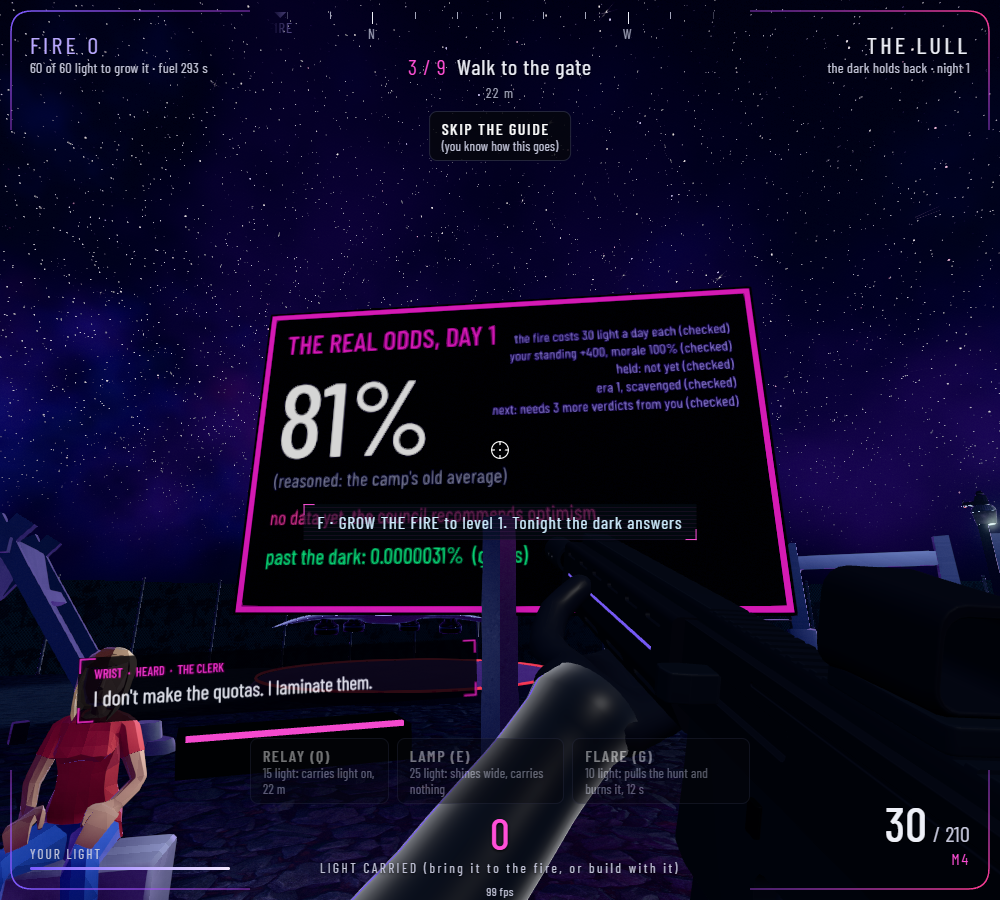
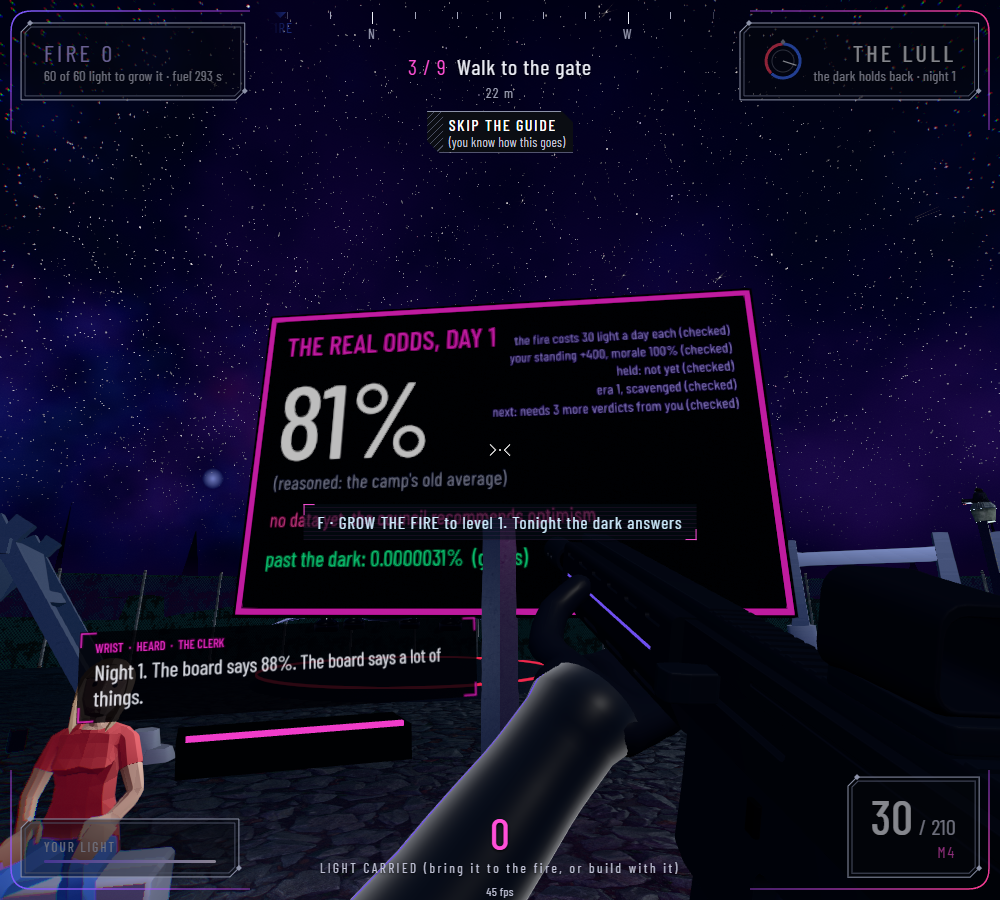
Screens' look from the concept sheets: loading screen with real progress, steel double-line HUD frames, cut-corner hatch keys, chevron crosshair, cracked-visor damage overlay, day/night dial, blue-ours red-dark compass

diff --git a/next/client/uikit.js b/next/client/uikit.js
@@ -1,0 +1,112 @@
+// The screens' look from his concept sheets, taken through the North Star (2026-10-19): black, crimson, violet, cold gray; blue is ours, red is the
+// dark. Thin sharp steel lines on black. Neon means saturated, never a glowing blob: no glow or halo anywhere here (taste rule 3), no orange, gold,
+// rust, olive or mint. One file so the pieces stay together: the loading screen, steel frames and cut-corner keys, the two-chevron crosshair, the
+// cracked-visor damage overlay, the day and night dial, and the colors the compass uses.
+export const COL = { steel: '#8c92a8', steelDim: '#4a4f63', black: '#05060b', ours: '#3b6bff', dark: '#ff3b5c', crimson: '#c4143c', violet: '#7b5cff', text: '#eef0f8' };
+const CSS = `
+/* ---- keys: the long cut-corner key with hatch marks and an inset box (sheet 11:10) */
+.key, .bk { border: 0 !important; border-radius: 0 !important; clip-path: polygon(0 0, calc(100% - 12px) 0, 100% 12px, 100% 100%, 12px 100%, 0 calc(100% - 12px));
+  background: linear-gradient(${COL.steel}, ${COL.steel}) top left / calc(100% - 12px) 1px no-repeat, linear-gradient(${COL.steel}, ${COL.steel}) bottom right / calc(100% - 12px) 1px no-repeat,
+    repeating-linear-gradient(135deg, ${COL.steelDim} 0 1px, transparent 1px 5px) left center / 30px 100% no-repeat, #0b0d13 !important; text-align: left; padding-left: 40px !important; box-shadow: none !important; }
+.key:hover, .key:focus-visible, .bk:focus-visible, .bk.on { background: linear-gradient(${COL.ours}, ${COL.ours}) top left / calc(100% - 12px) 1px no-repeat, linear-gradient(${COL.ours}, ${COL.ours}) bottom right / calc(100% - 12px) 1px no-repeat,
+    repeating-linear-gradient(135deg, ${COL.ours} 0 1px, transparent 1px 5px) left center / 30px 100% no-repeat, #0b0d13 !important; }
+/* (the small build keys in play are narrower so the HUD stays under 6 percent) */
+.bk { padding: 4px 8px 3px 22px !important; min-width: 0 !important; }
+.bk { background-size: calc(100% - 12px) 1px, calc(100% - 12px) 1px, 16px 100%, auto !important; }
+/* ---- HUD panels get a thin steel double line (drawn as svg by uikit.js; the svg itself is never a box) */
+.stl { position: absolute; left: -10px; top: -8px; width: calc(100% + 20px); height: calc(100% + 16px); pointer-events: none; overflow: visible; }
+body #fireHud, body #hp, body #ammo, body #phase { padding: 8px 14px 7px; }
+body #hp { width: 200px; box-sizing: border-box; }
+/* ---- the loading screen */
+#loadscr { position: fixed; inset: 0; z-index: 60; background: #000; transition: opacity .5s; } #loadscr canvas { position: absolute; inset: 0; width: 100%; height: 100%; }
+#loadscr.gone { opacity: 0; pointer-events: none; }
+#loadscr .lt { position: absolute; left: 0; right: 0; top: 50%; text-align: center; font: 300 clamp(26px, 4vh, 40px) "Barlow Condensed", sans-serif; letter-spacing: .7em; text-indent: .7em; color: ${COL.text}; }
+#loadscr .bar { position: absolute; left: 50%; top: calc(50% + 46px); width: min(300px, 40vw); height: 2px; margin-left: calc(min(300px, 40vw) / -2); background: ${COL.steelDim}; }
+#loadscr .bar i { display: block; height: 100%; width: 0; background: ${COL.text}; transition: width .25s; }
+#loadscr .ln { position: absolute; left: 50%; top: calc(50% + 62px); transform: translateX(-50%); font: 400 14px "Barlow Condensed", sans-serif; letter-spacing: .2em; color: ${COL.steel}; white-space: nowrap; }
+/* ---- damage: a cracked visor with a red frosted edge, never a glow */
+#crack { position: fixed; inset: 0; z-index: 8; pointer-events: none; opacity: 0; }
+#crack .frost { position: absolute; inset: 0; backdrop-filter: blur(4px); -webkit-backdrop-filter: blur(4px); -webkit-mask: radial-gradient(ellipse at center, transparent 58%, #000 100%); mask: radial-gradient(ellipse at center, transparent 58%, #000 100%); background: radial-gradient(ellipse at center, transparent 55%, rgba(196,20,60,.5) 100%); }
+#crack canvas { position: absolute; inset: 0; width: 100%; height: 100%; }
+#hurt, #loading { display: none !important; }
+/* ---- the day and night dial, in the phase corner */
+body #phase { padding-left: 64px; min-height: 40px; } #phase .dial { position: absolute; left: 12px; top: 50%; width: 44px; height: 44px; margin-top: -22px; }
+/* ---- the compass: red is the dark, blue is ours */
+#compass .fire { color: ${COL.ours} !important; } #compass .fire::before { border-top-color: ${COL.ours} !important; }
+`;
+const rng = s => () => (s = (s * 1664525 + 1013904223) % 4294967296) / 4294967296;
+const NS = 'http://www.w3.org/2000/svg';
+
+// a cut-corner polygon path in a w by h box, inset by o, corner cut c
+const cut = (w, h, o, c) => `${o + c},${o} ${w - o},${o} ${w - o},${h - o - c} ${w - o - c},${h - o} ${o},${h - o} ${o},${o + c}`;
+function frame(el) {
+  const svg = document.createElementNS(NS, 'svg'); svg.setAttribute('class', 'stl'); el.style.position = 'fixed'; el.prepend(svg);
+  const draw = () => { const w = el.offsetWidth + 20, h = el.offsetHeight + 16; if (w < 30 || h < 20) return; svg.setAttribute('viewBox', `0 0 ${w} ${h}`);
+    const stud = (x, y) => `<path d="M${x} ${y - 3}L${x + 3} ${y}L${x} ${y + 3}L${x - 3} ${y}Z" fill="${COL.steel}"/>`;
+    svg.innerHTML = `<polygon points="${cut(w, h, 1, 9)}" fill="rgba(5,6,11,.45)" stroke="${COL.steel}" stroke-width="1"/><polygon points="${cut(w, h, 5, 6)}" fill="none" stroke="${COL.steelDim}" stroke-width="1"/>${stud(10, 1)}${stud(w - 1, h - 10)}`; };
+  new ResizeObserver(draw).observe(el); draw();
+  new MutationObserver(() => { for (const n of el.keep) if (!n.isConnected) el.prepend(n); }).observe(el, { childList: true }); el.keep = [svg];   // (main.js rewrites these boxes' html: the frame and dial are put back)
+}
+function dialSvg() {
+  const s = document.createElementNS(NS, 'svg'); s.setAttribute('class', 'dial'); s.setAttribute('viewBox', '-22 -22 44 44'); return s;
+}
+const arc = (a0, a1, r) => { const p = a => [Math.sin(a) * r, -Math.cos(a) * r], [x0, y0] = p(a0), [x1, y1] = p(a1); return `M${x0.toFixed(2)} ${y0.toFixed(2)}A${r} ${r} 0 ${a1 - a0 > Math.PI ? 1 : 0} 1 ${x1.toFixed(2)} ${y1.toFixed(2)}`; };
+
+export class UI {
+  constructor(consts) {
+    this.k = consts;   // { DUSK_AT, NIGHT_AT, DAWN_AT } from core/game.js
+    document.head.append(Object.assign(document.createElement('style'), { textContent: CSS }));
+    for (const id of ['fireHud', 'hp', 'ammo', 'phase']) { const el = document.getElementById(id); if (el) frame(el); }
+    this.crosshair(); this.buildCrack(); this.buildLoad(); this.buildDial();
+    this.flash = 0; this.heal = 0; this.total = 0; this.shown = false; addEventListener('resize', () => { this.drawLoad(); this.drawCrack(); });
+  }
+  // ---- (3) the crosshair: two thin chevrons and a dot, white on a dark edge so it reads on any ground
+  crosshair() {
+    const c = document.getElementById('cross'); if (!c) return; const L = 'M -11 -6 L -5 0 L -11 6', R = 'M 11 -6 L 5 0 L 11 6';
+    c.innerHTML = `<svg viewBox="-12 -12 24 24"><g fill="none" stroke-linecap="square"><g stroke="#000" stroke-opacity=".6" stroke-width="3"><path d="${L}"/><path d="${R}"/><circle r="1.6" fill="#000" fill-opacity=".6"/></g><g stroke="#fff" stroke-width="1.2"><path d="${L}"/><path d="${R}"/></g><circle r="1.1" fill="#fff"/></g></svg>`;
+  }
+  // ---- (1) the loading screen: stars over black pines, red corruption sparks in the bottom corners, a cut-corner frame, LOADING over a thin bar
+  buildLoad() {
+    const d = this.load = document.createElement('div'); d.id = 'loadscr'; d.hidden = true; d.innerHTML = '<canvas></canvas><div class="lt">LOADING</div><div class="bar"><i></i></div><div class="ln"></div>'; document.body.append(d);
+    this.lc = d.querySelector('canvas'); this.lbar = d.querySelector('.bar i'); this.lln = d.querySelector('.ln');
+  }
+  drawLoad() {
+    const c = this.lc; if (!c) return; const W = c.width = innerWidth, H = c.height = innerHeight, g = c.getContext('2d'), r = rng(7); g.fillStyle = '#000'; g.fillRect(0, 0, W, H);
+    const sky = g.createLinearGradient(0, 0, 0, H); sky.addColorStop(0, '#05030c'); sky.addColorStop(0.6, '#150a24'); sky.addColorStop(0.85, '#3a1030'); sky.addColorStop(1, '#4a1030'); g.fillStyle = sky; g.fillRect(0, 0, W, H);
+    for (let i = 0; i < W * H / 2600; i++) { const x = r() * W, y = r() * H * 0.8, b = 0.25 + r() * 0.75; g.fillStyle = `rgba(238,240,248,${(b * b).toFixed(2)})`; const s = r() < 0.06 ? 2 : 1; g.fillRect(x | 0, y | 0, s, s); }
+    for (let layer = 0; layer < 3; layer++) { const base = H * (0.8 + layer * 0.07), n = Math.ceil(W / (26 - layer * 5)), col = ['#07040b', '#040207', '#000'][layer]; g.fillStyle = col; g.beginPath(); g.moveTo(0, H);
+      for (let i = 0; i <= n; i++) { const x = i * W / n, th = (60 + r() * 70) * (1 - layer * 0.15) * H / 900, w = W / n * 0.9; g.lineTo(x - w / 2, base); g.lineTo(x, base - th); g.lineTo(x + w / 2, base); } g.lineTo(W, H); g.closePath(); g.fill(); }
+    for (const sx of [0, 1]) for (let i = 0; i < 170; i++) { const x = (sx ? W - 1 : 0) + (sx ? -1 : 1) * Math.pow(r(), 1.8) * W * 0.16, y = H - Math.pow(r(), 1.6) * H * 0.22, a = 0.3 + r() * 0.7; g.fillStyle = `rgba(255,59,92,${a.toFixed(2)})`; const q = r() < 0.25 ? 4 : 2; g.fillRect(x | 0, y | 0, q, q); }
+    const m = Math.round(Math.min(W, H) * 0.045), c1 = 22; g.strokeStyle = COL.steel; g.lineWidth = 1; for (const [o, col] of [[m, COL.steel], [m + 6, COL.steelDim]]) { g.strokeStyle = col; g.beginPath(); g.moveTo(o + c1, o); g.lineTo(W - o, o); g.lineTo(W - o, H - o - c1); g.lineTo(W - o - c1, H - o); g.lineTo(o, H - o); g.lineTo(o, o + c1); g.closePath(); g.stroke(); }
+    g.fillStyle = COL.steel; for (const [x, y] of [[m + c1 / 2, m + c1 / 2 - 0], [W - m - c1 / 2, H - m - c1 / 2]]) { g.beginPath(); g.moveTo(x, y - 4); g.lineTo(x + 4, y); g.lineTo(x, y + 4); g.lineTo(x - 4, y); g.closePath(); g.fill(); }
+  }
+  show() { this.shown = true; this.total = 0; this.load.hidden = false; this.load.classList.remove('gone'); this.drawLoad(); this.progress(0, 'lighting the fire'); }
+  // real progress: the tiles the world still has to build (the first count seen is the whole job)
+  progress(frac, text) { this.lbar.style.width = Math.round(Math.max(0, Math.min(1, frac)) * 100) + '%'; if (text) this.lln.textContent = text; }
+  tiles(left) { if (!this.shown) return; this.total = Math.max(this.total, left); this.progress(this.total ? 1 - left / this.total : 0, `building the ground, ${left} tiles left`); }
+  done() { if (!this.shown) return; this.shown = false; this.progress(1, 'ready'); this.load.classList.add('gone'); setTimeout(() => { this.load.hidden = true; }, 600); }
+  // ---- (4) damage: hurt cracks the visor with a red frosted edge; it fades as you heal
+  buildCrack() {
+    const d = this.crack = document.createElement('div'); d.id = 'crack'; d.innerHTML = '<div class="frost"></div><canvas></canvas>'; document.body.append(d); this.cc = d.querySelector('canvas'); this.drawCrack();
+  }
+  drawCrack() {
+    const c = this.cc; if (!c) return; const W = c.width = innerWidth, H = c.height = innerHeight, g = c.getContext('2d'), r = rng(11); g.clearRect(0, 0, W, H); g.lineCap = 'round';
+    for (const [ix, iy] of [[0.14, 0.2], [0.82, 0.12], [0.9, 0.78], [0.2, 0.86]]) { const cx = ix * W, cy = iy * H, spokes = 7 + (r() * 4 | 0);
+      for (let s = 0; s < spokes; s++) { let a = (s / spokes) * Math.PI * 2 + r() * 0.5, x = cx, y = cy, len = (0.07 + r() * 0.18) * Math.min(W, H); const seg = 6; g.beginPath(); g.moveTo(x, y);
+        for (let k = 0; k < seg; k++) { a += (r() - 0.5) * 0.6; const l = len / seg; x += Math.cos(a) * l; y += Math.sin(a) * l; g.lineTo(x, y); if (r() < 0.25) { g.moveTo(x, y); const bx = x + Math.cos(a + 0.9) * l * 1.6, by = y + Math.sin(a + 0.9) * l * 1.6; g.lineTo(bx, by); g.moveTo(x, y); } }
+        g.strokeStyle = 'rgba(238,240,248,.75)'; g.lineWidth = 1; g.stroke(); g.strokeStyle = 'rgba(196,20,60,.6)'; g.lineWidth = 3; g.globalCompositeOperation = 'destination-over'; g.stroke(); g.globalCompositeOperation = 'source-over'; }
+      g.fillStyle = 'rgba(238,240,248,.9)'; g.beginPath(); g.arc(cx, cy, 2.5, 0, 7); g.fill(); }
+  }
+  hit(dmg) { this.flash = Math.min(1, this.flash + 0.25 + dmg / 40); }
+  frame(dt, hp) {   // (the visor stays cracked while you are hurt and clears as the light comes back; a fresh hit flashes it harder)
+    this.flash = Math.max(0, this.flash - dt * 1.4); const base = Math.max(0, Math.min(1, (70 - hp) / 55)); const a = Math.max(base, this.flash * 0.9);
+    if (Math.abs(a - (this.lastA ?? -1)) > 0.004) { this.lastA = a; this.crack.style.opacity = a.toFixed(3); }
+  }
+  // ---- (5) the day and night dial: the lit half is blue (ours), the dark half is red; a thin needle is the hour
+  buildDial() {
+    const ph = document.getElementById('phase'); if (!ph) return; this.dial = dialSvg(); ph.prepend(this.dial); ph.keep.push(this.dial); const k = this.k, A = Math.PI * 2, d1 = k.NIGHT_AT * A;
+    this.dial.innerHTML = `<path d="${arc(0.02, d1 - 0.02, 17)}" fill="none" stroke="${COL.ours}" stroke-width="3"/><path d="${arc(d1 + 0.02, A - 0.02, 17)}" fill="none" stroke="${COL.dark}" stroke-width="3"/><circle r="11" fill="none" stroke="${COL.steelDim}" stroke-width="1"/><line id="needle" x1="0" y1="0" x2="0" y2="-14" stroke="${COL.text}" stroke-width="1.2"/><path d="M0 -22 L2.5 -19 L0 -16 L-2.5 -19Z" fill="${COL.steel}"/>`;
+    this.needle = this.dial.querySelector('#needle');
+  }
+  clock(c) { if (this.needle) this.needle.setAttribute('transform', `rotate(${((c % 1) * 360).toFixed(1)})`); }
+}

diff --git a/next/client/main.js b/next/client/main.js
@@ -24,6 +24,7 @@ import { think as friendThink } from './friend.js?v=167';
 import { FriendVoice } from './friendvoice.js?v=167';
 import { crewFrom } from '../core/habits.js?v=167';
 import { HudLook } from './hudlook.js?v=167';
+import { UI } from './uikit.js?v=167';
 import { Rain } from './rain.js?v=167';
 import { Immersion } from './immersion.js?v=167';
 import { VisorRain } from './visor.js?v=167';
@@ -624,7 +625,7 @@ function frame(now) {
   if (AUTO && now - last < 24) return requestAnimationFrame(frame);   // (the robot player's runs draw at most about 40 frames a second: headless has no screen to wait for, and the card ran at 97%)
   requestAnimationFrame(frame); const dt = Math.min(0.05, (now - last) / 1000); last = now; sandyCd = Math.max(0, sandyCd - dt); sandyT = Math.max(0, sandyT - dt); tScale += ((sandyT > 0 ? SANDY.scale : 1) - tScale) * Math.min(1, dt * 8); const wdt = dt * tScale; grade.uniforms.uS.value = (1 - tScale) / (1 - SANDY.scale);   /* (wdt: the world's time; dt stays yours) */
   if (mode !== 'play') { padStep(dt); const t = now / 1000; camera.position.set(0, 90, 0); camera.rotation.set(0.38 + Math.sin(t * 0.07) * 0.015, Math.atan2(-0.6, 0.78) + 0.2 + Math.sin(t * 0.05) * 0.035, 0, 'YXZ');   /* (Earth sits right of the menu and never drifts behind it) */ sky.material.uniforms.uT.value = t; renderer.render(scene, camera); return; }   // (the home screen looks at Earth, drifting slowly)
-  const left = updateTiles(); if (!g.ready) { if (left > 0) { $('loading').textContent = `Lighting the fire: ${left} tiles left`; camera.position.set(me.x, me.y + 1.6, me.z); renderer.render(scene, camera); return; } g.ready = true; $('loading').hidden = true; say('The dark has no edge. Gather its light and push it back.', 5); }
+  const left = updateTiles(); if (!g.ready) { if (left > 0) { $('loading').textContent = `Lighting the fire: ${left} tiles left`; ui.tiles(left); camera.position.set(me.x, me.y + 1.6, me.z); renderer.render(scene, camera); return; } g.ready = true; $('loading').hidden = true; ui.done(); say('The dark has no edge. Gather its light and push it back.', 5); }
   if (AUTO) window.__eyes = eyes(); if (DEMO && !panel) (/night/.test(location.search) ? demoNight : demoStep)(dt); if (!panel) move(dt);
   padStep(dt); smartStep(dt); shotCd = Math.max(0, shotCd - dt); if (reloadT > 0 && (reloadT -= dt) <= 0) { reloadT = 0; const G = GUNS[gunKey], a = ammo[gunKey], n = Math.min(G.mag - a.mag, a.res); a.mag += n; a.res -= n; }
   heat = Math.max(0, heat - dt * 0.32); if (overheat && heat < 0.35) overheat = false;   /* (the mount cools about a third of its heat a second) */
@@ -632,7 +633,7 @@ function frame(now) {
     if (mouse[0] && can) { if (railC === 0) { if (railRig) railRig.charge(); sound.click(); } railC = Math.min(1, railC + dt / GUNS[gunKey].charge); } else if (railC > 0) { shoot.c = railC; railC = 0; shoot(); } else if (mouse[0] && !can && ammo[gunKey].mag <= 0 && !shoot.held) { shoot(); shoot.held = true; } if (!mouse[0]) shoot.held = false; }
   else { if (locked() && mouse[0] && !panel && !buildPick && (mounted() || GUNS[gunKey].auto || !shoot.held)) { shoot(); shoot.held = true; } if (!mouse[0]) shoot.held = false; }
   if (me.ember || (ship && ship.on)) aimOn = false; { const want = (SET.aimToggle ? aimOn : mouse[2]) && !buildPick && reloadT <= 0 && !mvSprint && readyT <= 0, T = MW.adsT[gunKey] || 0.25; ads = want ? Math.min(1, ads + dt / T) : Math.max(0, ads - dt / (T * 0.8)); }   /* (each gun reaches its sights in its own time, a straight line in, as in Modern Warfare) */
-  if (god) me.hp = 100; const hp0 = me.hp; if (isHost()) { if (!(panel && !net)) { runFriends(wdt); C.step(g, wdt); } }   /* (alone, a menu pauses the world: the fire stops burning while you read) */ else { g.t += dt; g.clock += dt / C.DAY; } if (me.hp < hp0) { $('hurt').style.opacity = Math.min(0.6, (hp0 - me.hp) / 25); setTimeout(() => $('hurt').style.opacity = 0, 160); sound.hurt(); }
+  if (god) me.hp = 100; const hp0 = me.hp; if (isHost()) { if (!(panel && !net)) { runFriends(wdt); C.step(g, wdt); } }   /* (alone, a menu pauses the world: the fire stops burning while you read) */ else { g.t += dt; g.clock += dt / C.DAY; } if (me.hp < hp0) { ui.hit(hp0 - me.hp); sound.hurt(); }
   const evs = g.log.splice(0); if (net && net.host && evs.length) net.send({ t: 'ev', e: evs.slice(0, 20) });
   for (const e of [...evs, ...inbox.splice(0)]) { friendHeard(e); if (e[1] === 'honor') say(`${e[2] === SET.name ? 'The camp raised a lamp in the yard with your name on it' : `The camp raised a lamp for ${e[2]}`}: ${e[3]} so far, one for every 300 light of credit.`, 6); if (e[1] === 'pool') say(`The camp's pool goes into the fire: ${e[2]} light, gathered while friends were away. Everyone shares it now.`, 6); if (e[1] === 'fall' && e[2] === me.id) { const t = (g.traces || []).filter(t => t.of === me.id).pop(); say(lastFall = `You fell to ${e[3] ? 'a ' + e[3] : 'the dark'}${t && Math.hypot(t.fx - t.x, t.fz - t.z) > 0.5 ? `, from the ${dirName(t.fx - t.x, t.fz - t.z)}` : ''}. Your last ten seconds are drawn in red where you fell.`, 6); } else if (e[1] !== 'allfell') lastFall = '';
     if (e[1] === 'goes' || e[1] === 'returned' || e[1] === 'lost') { const who = String(e[2] || ''), Who = who[0] ? who[0].toUpperCase() + who.slice(1) : who;   // (the Clerk's paperwork on people who go out: dry, true, filed)
@@ -662,7 +663,7 @@ function frame(now) {
   if (models.fp_rifle && !fpRig) { fpRig = new FpRig(THREE, vcam, models.fp_rifle); if (DEMO) window.__fp = fpRig; } if (fpRig) { const on = !!(gm && gm.visible && gunKey === 'ar'); if (on) gm.visible = false; fpRig.update(dt, on, ads, kick); }
   if (models.fp_rail && !railRig) railRig = new FpRig(THREE, vcam, models.fp_rail); if (railRig) { const on = !!(gm && gm.visible && gunKey === 'rail'); if (on) gm.visible = false; railRig.update(dt, on, ads, kick, railC); }   /* (the rail sniper is only ever the Blender rig) */   /* (?fp: the Blender rifle stands in for the M4 and its arms) */
   hands.update(dt, { reloading: reloadT > 0 ? 1 - reloadT / (GUNS[gunKey].reload * reloadSpeed(gunKey)) : -1, ads, kick, moving: onGround ? Math.min(1, vel.length() / 4.6) : 0, gun: gunKey });   /* (the arms: hands.js, the reload as a real hand motion; it hides itself when the gun is hidden) */
-  drawFriends(dt); sync(dt); if (camp) camp.update(dt); if (ship) { if (ship.on && padOn) { const gp = [...navigator.getGamepads()].find(x => x && x.connected), tv = i => gp && gp.buttons[i] ? gp.buttons[i].value : 0; Object.assign(keys, { KeyW: padMove.f > 0.3, KeyS: padMove.f < -0.3, KeyA: padMove.s < -0.3, KeyD: padMove.s > 0.3, Space: tv(7) > 0.3, ShiftLeft: tv(6) > 0.3 }); frame.padShip = true; } else if (frame.padShip) { frame.padShip = false; for (const k of ['KeyW', 'KeyS', 'KeyA', 'KeyD', 'Space', 'ShiftLeft']) keys[k] = false; } ship.update(dt, keys, me, g, isHost()); }   /* (flying on the pad: left stick flies and turns, RT climbs, LT descends) */ wrist.update(dt); { const k = Math.max(Math.max(0, 1 - C.lightAt(g, me.x, me.z, true) * 3) * 0.85, 0.75 * grade.uniforms.uS.value); if (Math.abs(k - (frame.muf ?? -1)) > 0.03) { frame.muf = k; sound.muffle(k); } }   /* (sound is sharp only in light: out in the dark the world goes muffled. INNOVATION.md idea 9) */ if (guide) guide.update(dt); if (truck) truck.update(g); hudLook.update(dt, me, g, C, () => { const am = ammo[gunKey]; return am.mag + '/' + am.res + gunKey + (reloadT > 0); });
+  drawFriends(dt); sync(dt); if (camp) camp.update(dt); if (ship) { if (ship.on && padOn) { const gp = [...navigator.getGamepads()].find(x => x && x.connected), tv = i => gp && gp.buttons[i] ? gp.buttons[i].value : 0; Object.assign(keys, { KeyW: padMove.f > 0.3, KeyS: padMove.f < -0.3, KeyA: padMove.s < -0.3, KeyD: padMove.s > 0.3, Space: tv(7) > 0.3, ShiftLeft: tv(6) > 0.3 }); frame.padShip = true; } else if (frame.padShip) { frame.padShip = false; for (const k of ['KeyW', 'KeyS', 'KeyA', 'KeyD', 'Space', 'ShiftLeft']) keys[k] = false; } ship.update(dt, keys, me, g, isHost()); }   /* (flying on the pad: left stick flies and turns, RT climbs, LT descends) */ wrist.update(dt); { const k = Math.max(Math.max(0, 1 - C.lightAt(g, me.x, me.z, true) * 3) * 0.85, 0.75 * grade.uniforms.uS.value); if (Math.abs(k - (frame.muf ?? -1)) > 0.03) { frame.muf = k; sound.muffle(k); } }   /* (sound is sharp only in light: out in the dark the world goes muffled. INNOVATION.md idea 9) */ ui.frame(dt, me.hp); ui.clock(g.clock); if (guide) guide.update(dt); if (truck) truck.update(g); hudLook.update(dt, me, g, C, () => { const am = ammo[gunKey]; return am.mag + '/' + am.res + gunKey + (reloadT > 0); });
   const free = !locked() && !panel; if (clickPlay.hidden === free) clickPlay.hidden = !free; { const o = free ? 0.4 : Math.max(0, 1 - ads * 2.5); if (Math.abs(o - (frame.xo ?? -1)) > 0.02) { frame.xo = o; $('cross').style.opacity = o.toFixed(2); } }   /* (one reticle: dim on standby, gone by 40% into the sights, where the gun's own sight takes over) */
   { const ph = C.phase(g.clock), nt = ph === 'night' ? 1 : ph === 'dusk' || ph === 'dawn' ? 0.5 : 0, onE = C.onEarth(me);   // (far sounds: each from a real shape, wreck or part out there)
     const causes = [...g.hollow.filter(k => !k.dead && !!k.earth === onE).map(k => ({ x: k.x, z: k.z, dark: true })), ...(onE ? [...((g.earth && g.earth.wrecks) || []), ...(g.parts || [])].map(w => ({ x: w.x, z: w.z })) : [])];
@@ -930,7 +931,7 @@ async function begin(seed, id, saved = null) {
     stage: () => { if (!isHost()) return; const f = g.fire, a = Math.atan2(me.z - f.z, me.x - f.x) + 0.35, r = C.fireRadius(f) + 7, x = f.x + Math.cos(a) * r, z = f.z + Math.sin(a) * r, K = C.KINDS.walker;
       g.hollow.push({ id: g.nextId++, kind: 'walker', x, z, y: g.land(x, z), yaw: 0, hp: K.hp, max: K.hp, sh: 0, sb: 0, cd: 0, dead: false, speed: 1.1, staged: true }); } });
   setTimeout(() => guide.start(), 1200); setTimeout(shareLines, 1500);   // (your own words go to whoever hosts, for your learned copy)
-  mode = 'play'; $('menu').hidden = true; $('bootLog').hidden = true; $('hud').hidden = false; drawBuild();
+  mode = 'play'; $('menu').hidden = true; $('bootLog').hidden = true; $('hud').hidden = false; ui.show(); drawBuild();
   await ready; prepGun('pistol'); prepGun('ar'); prepGun('shotgun'); prepGun('lmg'); { const r = new THREE.Group(); r.userData = { len: 1, top: 0, muzzle: new THREE.Vector3(0.03, -0.04, -0.9) }; r.visible = false; view.add(r); held.rail = r; }   /* (the rail's slot: its look is the Blender rig, drawn by railRig) */ hands.attach(held[gunKey], gunKey);
 }
 // ---------------------------------------------------------------- your worlds: saved in this browser, every 20 seconds and when you leave
@@ -952,6 +953,7 @@ function drawWorlds() {
   $('worlds').innerHTML = key(list[0]) + (list.length > 1 ? `<button class="key" id="older">OLDER WORLDS (${list.length - 1})<small>(show the rest)</small></button><div id="olderList" hidden>${list.slice(1).map(key).join('')}</div>` : '');   // (the newest first; the rest one click away)
 }
 $('worlds').addEventListener('click', e => { const b = e.target.closest('button'); if (!b) return; if (b.id === 'older') { $('olderList').hidden = !$('olderList').hidden; return; } myName(); sound.wake(); pendingWorld = b.dataset.w; if ($('asHost').checked) { openRoom(); startWorld(pendingWorld); say(`Your crew's room ${crewCode()} is open.`, 6); } else startWorld(pendingWorld); });
+const ui = new UI({ DUSK_AT: C.DUSK_AT, NIGHT_AT: C.NIGHT_AT, DAWN_AT: C.DAWN_AT });   // (the screens' look: client/uikit.js)
 const hudLook = new HudLook(() => 'visor', () => {});   // (he kept VISOR, 2026-10-19; QUIET and GLASS stay in hudlook.js as variants, not on screen)
 
 document.body.classList.add('menu-A'); bootLog();   // (BOOT: his pick of three home screens, 2026-10-19; THE SUIT menu (v120) was taken back at his word: it copied the Reactor's layout)
